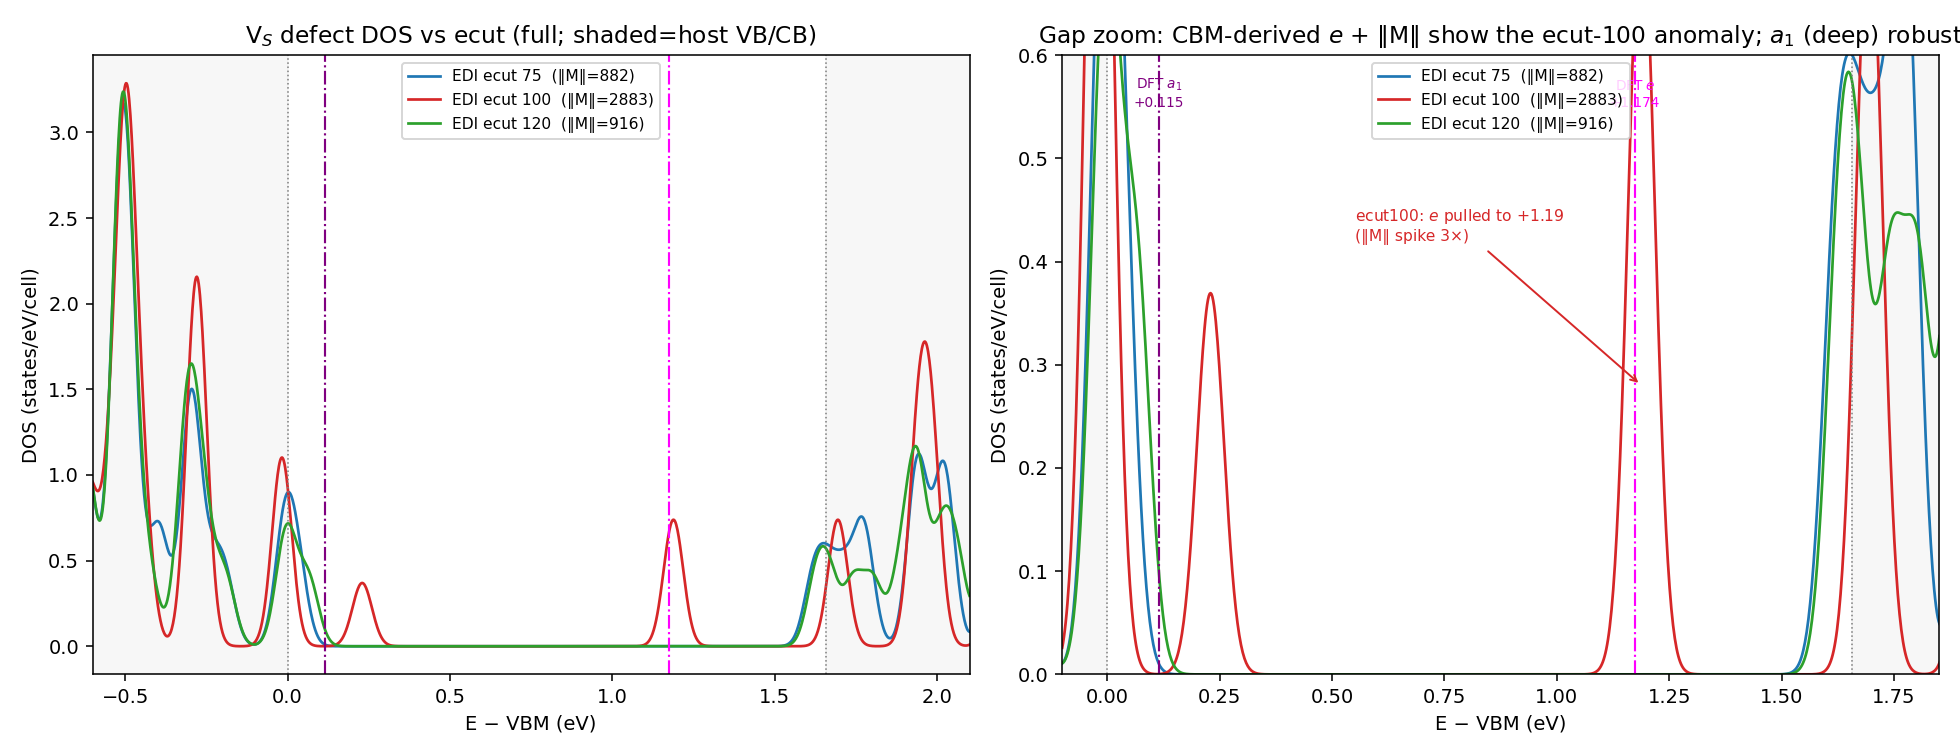
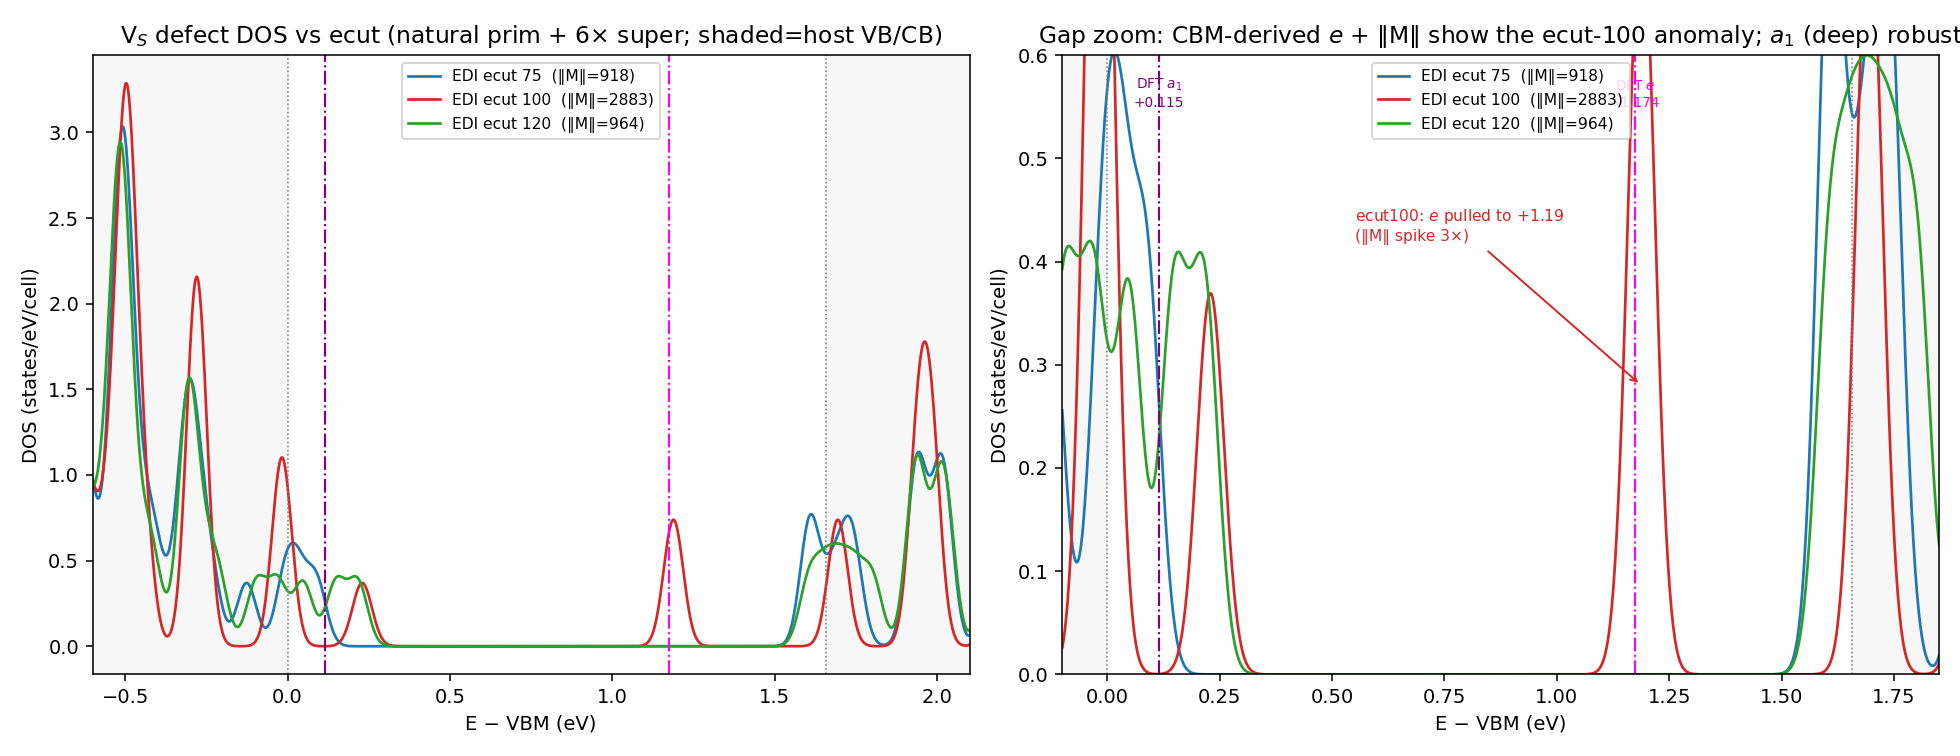
tmatrix §4.7: redo V_S ecut-DOS with correct methodology (natural prim + 6x super)
Regenerate dos_ecut_vs.png using the natural primitive FFT grid (36/40/45) with
the supercell forced to 6x (216/240/270) — the correct commensurate EDI setup —
instead of the earlier forced prim-48 grid. Result is identical: ||M|| = 918 ->
2883 -> 964 (3x spike at ecut 100), e-doublet pulled to +1.19 at ecut 100. The
ecut-100 anomaly is grid-robust (natural, forced-48, and 12x12-subset all agree),
confirming it is a genuine ecut effect, not a grid choice.

diff --git a/docs/pages/tmatrix.html b/docs/pages/tmatrix.html
@@ -95,7 +95,7 @@ A(\mathbf k,\omega)=-\frac{1}{\pi}\,\mathrm{Im}\,\mathrm{Tr}\,\big[\omega-H_0(\m
 <h3>4.7 V$_S$: the same $E_{\rm cut}$-100 anomaly hits the CBM-derived $e$-doublet ($a_1$ is robust)</h3>
 <p>Repeating the controlled $E_{\rm cut}$ study for the V$_S$ vacancy — which, unlike isovalent O$_S$, has <em>genuine</em> deep states — shows the $E_{\rm cut}$-100 anomaly is <strong>not O$_S$-specific</strong>.</p>
 <p><strong>Ground truth (DFT supercell, $E_{\rm cut}$-converged — Γ eigenvalues identical at 75/100/120 Ry):</strong> V$_S$ has a filled $a_1$ at <strong>+0.115 eV</strong> above VBM and an empty $e$-doublet at <strong>+1.174 eV</strong> (0.48 eV below the CBM).</p>
-<p><img src="../assets/dos_ecut_vs.png" alt="V_S defect DOS vs ecut" style="max-width:100%;height:auto;display:block;margin:1.2rem auto;border:1px solid #d0d7de;border-radius:6px"> <em>EDI direct-diagonalization defect DOS for V$_S$ at $E_{\rm cut}=$ 75/100/120 Ry (all commensurate 6×6). Purple/magenta dashed = DFT $a_1$/$e$. The matrix-element norm <strong>spikes 3× at $E_{\rm cut}=100$</strong> ($\lVert M\rVert$ = 882 → 2882 → 916 eV), and the CBM-derived $e$-doublet is pulled from the CB edge ($\sim$+1.6 at 75/120) down to <strong>+1.19 at $E_{\rm cut}=100$</strong> — the same $E_{\rm cut}$-100 anomaly as O$_S$ (§4.6). The deep $a_1$ (near VBM) is comparatively robust. (The 6×6 subset of the independent 12×12 production edmat reproduces $\lVert M\rVert=2883$ exactly, confirming this is the genuine V$_S$@100, not a setup artifact.)</em></p>
+<p><img src="../assets/dos_ecut_vs.png" alt="V_S defect DOS vs ecut" style="max-width:100%;height:auto;display:block;margin:1.2rem auto;border:1px solid #d0d7de;border-radius:6px"> <em>EDI direct-diagonalization defect DOS for V$_S$ at $E_{\rm cut}=$ 75/100/120 Ry, each with the <strong>natural primitive FFT grid</strong> (36/40/45) and the <strong>supercell forced to 6× that</strong> (216/240/270 — the correct commensurate EDI setup). Purple/magenta dashed = DFT $a_1$/$e$. The matrix-element norm <strong>spikes 3× at $E_{\rm cut}=100$</strong> ($\lVert M\rVert$ = 918 → 2883 → 964 eV), and the CBM-derived $e$-doublet is pulled from the CB edge ($\sim$+1.6 at 75/120) down to <strong>+1.19 at $E_{\rm cut}=100$</strong> — the same $E_{\rm cut}$-100 anomaly as O$_S$ (§4.6). The deep $a_1$ (near VBM) is comparatively robust. This is <strong>grid-robust</strong>: forcing the primitive grid to 48 (super 288) instead reproduces the same $\lVert M\rVert$ and levels, and the 6×6 subset of the independent 12×12 production edmat gives $\lVert M\rVert=2883$ — so the anomaly is a genuine $E_{\rm cut}$ effect, not a grid choice.</em></p>
 <p>So the $E_{\rm cut}\approx$90–100 EDI anomaly is <strong>systematic</strong> — the matrix-element norm and the CBM-derived states of <em>both</em> O$_S$ and V$_S$ are affected. The deep, localized $a_1$ (the state most relevant to the localized-phonon coupling) is comparatively robust, but <strong>$\lVert M\rVert$-dependent quantities — the diagonal $T$, self-energy, scattering rates, spectral function (§2–5) — inherit this $E_{\rm cut}$ sensitivity</strong>, since the production edmats were computed at $E_{\rm cut}=100$. Cross-checking against the DFT supercell and testing $E_{\rm cut}$ sensitivity is warranted for any quantitative CBM-region result; the deep $a_1$ is the more trustworthy quantity.</p>
 </section>
 <section id="sec-5"><h2>5. $T(nk,\omega)$ spectral map</h2>

diff --git a/content/note_tmatrix.md b/content/note_tmatrix.md
@@ -199,7 +199,7 @@ Repeating the controlled $E_{\rm cut}$ study for the V$_S$ vacancy — which, un
 **Ground truth (DFT supercell, $E_{\rm cut}$-converged — Γ eigenvalues identical at 75/100/120 Ry):** V$_S$ has a filled $a_1$ at **+0.115 eV** above VBM and an empty $e$-doublet at **+1.174 eV** (0.48 eV below the CBM).
 
 ![V_S defect DOS vs ecut](../assets/dos_ecut_vs.png)
-*EDI direct-diagonalization defect DOS for V$_S$ at $E_{\rm cut}=$ 75/100/120 Ry (all commensurate 6×6). Purple/magenta dashed = DFT $a_1$/$e$. The matrix-element norm **spikes 3× at $E_{\rm cut}=100$** ($\lVert M\rVert$ = 882 → 2882 → 916 eV), and the CBM-derived $e$-doublet is pulled from the CB edge ($\sim$+1.6 at 75/120) down to **+1.19 at $E_{\rm cut}=100$** — the same $E_{\rm cut}$-100 anomaly as O$_S$ (§4.6). The deep $a_1$ (near VBM) is comparatively robust. (The 6×6 subset of the independent 12×12 production edmat reproduces $\lVert M\rVert=2883$ exactly, confirming this is the genuine V$_S$@100, not a setup artifact.)*
+*EDI direct-diagonalization defect DOS for V$_S$ at $E_{\rm cut}=$ 75/100/120 Ry, each with the **natural primitive FFT grid** (36/40/45) and the **supercell forced to 6× that** (216/240/270 — the correct commensurate EDI setup). Purple/magenta dashed = DFT $a_1$/$e$. The matrix-element norm **spikes 3× at $E_{\rm cut}=100$** ($\lVert M\rVert$ = 918 → 2883 → 964 eV), and the CBM-derived $e$-doublet is pulled from the CB edge ($\sim$+1.6 at 75/120) down to **+1.19 at $E_{\rm cut}=100$** — the same $E_{\rm cut}$-100 anomaly as O$_S$ (§4.6). The deep $a_1$ (near VBM) is comparatively robust. This is **grid-robust**: forcing the primitive grid to 48 (super 288) instead reproduces the same $\lVert M\rVert$ and levels, and the 6×6 subset of the independent 12×12 production edmat gives $\lVert M\rVert=2883$ — so the anomaly is a genuine $E_{\rm cut}$ effect, not a grid choice.*
 
 So the $E_{\rm cut}\approx$90–100 EDI anomaly is **systematic** — the matrix-element norm and the CBM-derived states of *both* O$_S$ and V$_S$ are affected. The deep, localized $a_1$ (the state most relevant to the localized-phonon coupling) is comparatively robust, but **$\lVert M\rVert$-dependent quantities — the diagonal $T$, self-energy, scattering rates, spectral function (§2–5) — inherit this $E_{\rm cut}$ sensitivity**, since the production edmats were computed at $E_{\rm cut}=100$. Cross-checking against the DFT supercell and testing $E_{\rm cut}$ sensitivity is warranted for any quantitative CBM-region result; the deep $a_1$ is the more trustworthy quantity.
 